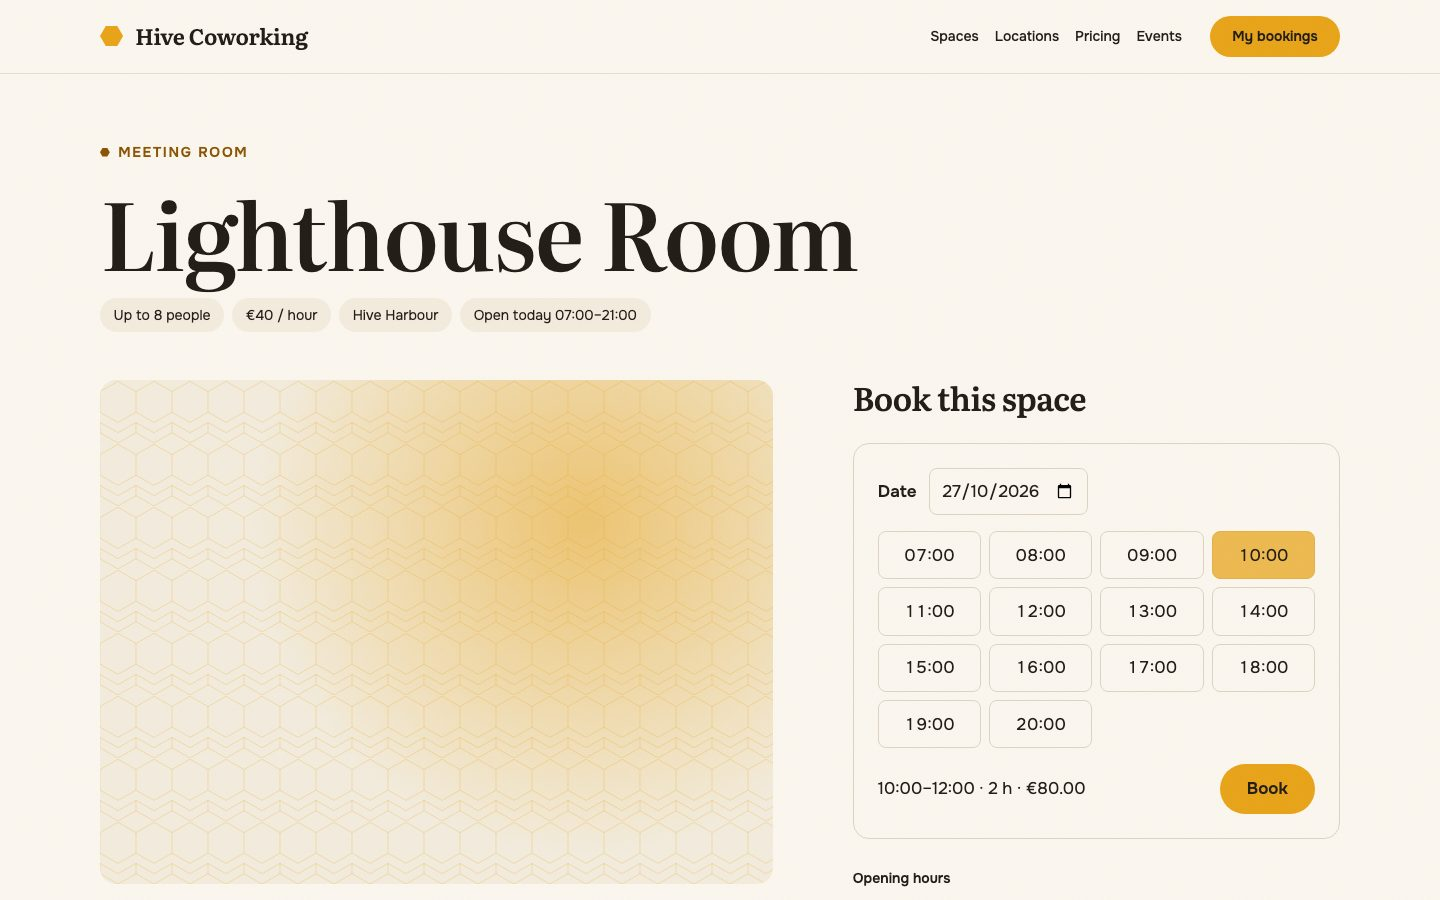
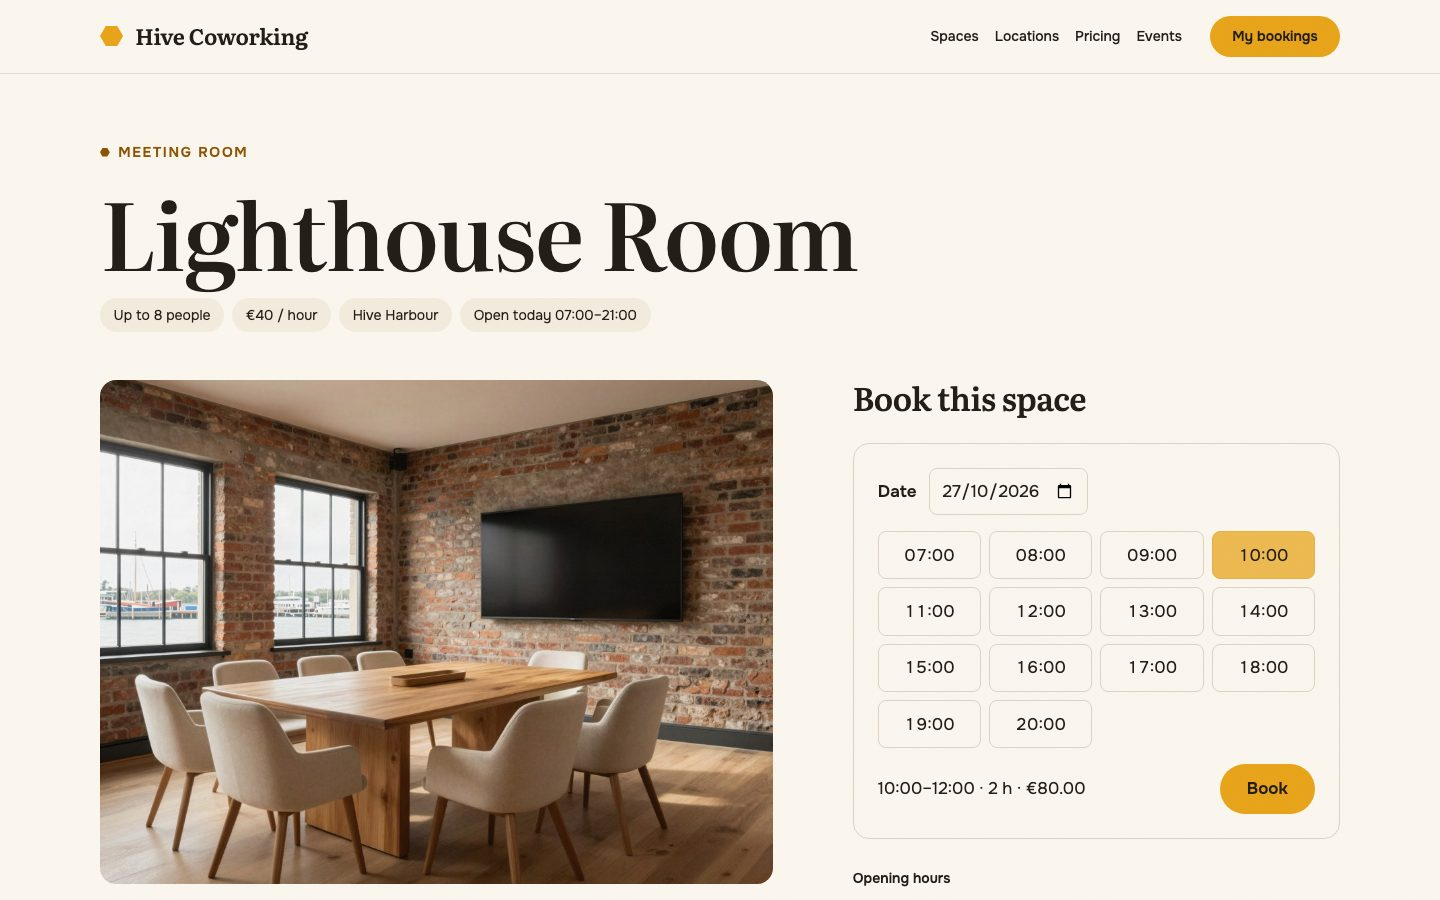
Add photos to the demo content
- Fifteen photos of the locations and spaces, bundled with the plugin and
  attached as featured images by the seeder (only where none is set, so
  rerunning wp hive seed adds them to existing sites)
- Sub-sizes are skipped while seeding to keep WordPress Playground fast
- Shared e2e login helper waits for wp-login.php's own focus timer, which
  made logins flaky
- Screenshots retaken with the photos

Changed region(s): [[0.0625, 0.4044, 0.5625, 0.9956]]

diff --git a/tests/e2e/screenshots.spec.js b/tests/e2e/screenshots.spec.js
@@ -2,7 +2,7 @@
  * Captures the README screenshots: npm run screenshots
  */
 const { test, expect } = require( '@playwright/test' );
-const { weekdayAhead } = require( './helpers' );
+const { weekdayAhead, logIn } = require( './helpers' );
 
 const OUT = 'docs/screenshots';
 const shot = ( page, name ) =>
@@ -41,8 +41,16 @@ test( 'space finder', async ( { page } ) => {
 	await page.goto( '/spaces/?space_type=meeting_room', {
 		waitUntil: 'networkidle',
 	} );
-	await page.locator( '.hive-finder__filters' ).scrollIntoViewIfNeeded();
-	await page.evaluate( () => window.scrollBy( 0, -120 ) );
+	// Show the filters and the first row of results together.
+	await page.evaluate( () =>
+		window.scrollTo(
+			0,
+			document.querySelector( '.hive-finder' ).getBoundingClientRect()
+				.top +
+				window.scrollY -
+				90
+		)
+	);
 	await shot( page, 'finder' );
 } );
 
@@ -80,10 +88,8 @@ test( 'admin bookings screen', async ( { browser } ) => {
 		viewport: { width: 1440, height: 900 },
 	} );
 	const page = await context.newPage();
-	await page.goto( '/wp-login.php' );
-	await page.getByLabel( 'Username or Email Address' ).fill( 'admin' );
-	await page.getByLabel( 'Password', { exact: true } ).fill( 'password' );
-	await page.getByRole( 'button', { name: 'Log In' } ).click();
+	// Default wp-env administrator.
+	await logIn( page, 'admin', 'password' );
 	await page.goto( '/wp-admin/admin.php?page=hive-bookings&when=all' );
 	await page.screenshot( {
 		path: `${ OUT }/admin.jpg`,

diff --git a/tests/e2e/helpers.js b/tests/e2e/helpers.js
@@ -51,4 +51,27 @@ async function spaceIdOnPage( page ) {
 	return JSON.parse( context ).spaceId;
 }
 
-module.exports = { weekdayAhead, bookThroughApi, spaceIdOnPage };
+/**
+ * Logs in through wp-login.php.
+ *
+ * The login page clears and focuses the username field 200 ms after load (wp_attempt_focus),
+ * so filling the form earlier races with it. Waiting past that timer makes logins reliable.
+ *
+ * @param {import('@playwright/test').Page} page     Page.
+ * @param {string}                          login    Username.
+ * @param {string}                          password Password.
+ */
+async function logIn( page, login, password ) {
+	await page.goto( '/wp-login.php', { waitUntil: 'load' } );
+	await page.waitForTimeout( 400 );
+
+	await page.getByLabel( 'Username or Email Address' ).fill( login );
+	await page.getByLabel( 'Password', { exact: true } ).fill( password );
+	await page.getByRole( 'button', { name: 'Log In' } ).click();
+	await page.waitForURL(
+		( url ) => ! url.pathname.endsWith( 'wp-login.php' ),
+		{ timeout: 30_000 }
+	);
+}
+
+module.exports = { weekdayAhead, bookThroughApi, spaceIdOnPage, logIn };

diff --git a/tests/e2e/auth.setup.js b/tests/e2e/auth.setup.js
@@ -1,16 +1,9 @@
-const { test: setup, expect } = require( '@playwright/test' );
+const { test: setup } = require( '@playwright/test' );
 const { MEMBER_LOGIN, MEMBER_PASSWORD } = require( './config' );
+const { logIn } = require( './helpers' );
 
 setup( 'log in as the demo member', async ( { page } ) => {
-	await page.goto( '/wp-login.php' );
-	await page.getByLabel( 'Username or Email Address' ).fill( MEMBER_LOGIN );
-	await page
-		.getByLabel( 'Password', { exact: true } )
-		.fill( MEMBER_PASSWORD );
-	await page.getByRole( 'button', { name: 'Log In' } ).click();
-	// The first request to a freshly started site can be slow in CI.
-	await expect( page ).not.toHaveURL( /wp-login\.php/, { timeout: 30_000 } );
-
+	await logIn( page, MEMBER_LOGIN, MEMBER_PASSWORD );
 	await page
 		.context()
 		.storageState( { path: 'tests/e2e/.auth/member.json' } );

diff --git a/plugins/hive-core/src/Demo/Seeder.php b/plugins/hive-core/src/Demo/Seeder.php
@@ -29,13 +29,14 @@ final class Seeder {
 	 *
 	 * @param DateTimeImmutable $now           Current time; events and bookings are placed relative to it.
 	 * @param string|null       $demo_password Password for the demo member; random when null.
-	 * @return array{amenities: int, locations: int, spaces: int, plans: int, events: int, pages: int, members: int, bookings: int}
+	 * @return array{amenities: int, locations: int, spaces: int, photos: int, plans: int, events: int, pages: int, members: int, bookings: int}
 	 */
 	public function run( DateTimeImmutable $now, ?string $demo_password = null ): array {
 		return array(
 			'amenities' => $this->seed_amenities(),
 			'locations' => $this->seed_locations(),
 			'spaces'    => $this->seed_spaces(),
+			'photos'    => $this->seed_photos(),
 			'plans'     => $this->seed_plans(),
 			'events'    => $this->seed_events( $now ),
 			'pages'     => $this->seed_pages(),
@@ -116,6 +117,63 @@ final class Seeder {
 		}
 
 		return $created;
+	}
+
+	/**
+	 * Sets the bundled photos as featured images of locations and spaces that have none.
+	 */
+	private function seed_photos(): int {
+		$created = 0;
+
+		foreach ( array_merge( array_keys( DemoContent::locations() ), array_keys( DemoContent::spaces() ) ) as $slug ) {
+			$post_id = $this->ids[ $slug ] ?? 0;
+			$file    = dirname( __DIR__, 2 ) . '/assets/demo/' . $slug . '.jpg';
+
+			if ( $post_id && is_readable( $file ) && ! has_post_thumbnail( $post_id ) ) {
+				$created += $this->attach_photo( $post_id, $file );
+			}
+		}
+
+		return $created;
+	}
+
+	/**
+	 * Copies a photo into the uploads folder and makes it the post's featured image.
+	 *
+	 * @param int    $post_id Post to attach the photo to.
+	 * @param string $file    Absolute path of the photo.
+	 */
+	private function attach_photo( int $post_id, string $file ): int {
+		require_once ABSPATH . 'wp-admin/includes/image.php';
+
+		// phpcs:ignore WordPress.WP.AlternativeFunctions.file_get_contents_file_get_contents -- Reading a bundled local file.
+		$upload = wp_upload_bits( basename( $file ), null, (string) file_get_contents( $file ) );
+		if ( false !== $upload['error'] ) {
+			return 0;
+		}
+
+		$attachment_id = wp_insert_attachment(
+			array(
+				'post_mime_type' => 'image/jpeg',
+				'post_title'     => get_the_title( $post_id ),
+				'post_status'    => 'inherit',
+			),
+			$upload['file'],
+			$post_id
+		);
+		if ( 0 === $attachment_id ) {
+			return 0;
+		}
+
+		// The photos are already web-sized. Skipping sub-sizes keeps seeding fast in WordPress Playground.
+		add_filter( 'intermediate_image_sizes_advanced', '__return_empty_array' );
+		wp_update_attachment_metadata( $attachment_id, wp_generate_attachment_metadata( $attachment_id, $upload['file'] ) );
+		remove_filter( 'intermediate_image_sizes_advanced', '__return_empty_array' );
+
+		update_post_meta( $attachment_id, '_wp_attachment_image_alt', get_the_title( $post_id ) );
+		set_post_thumbnail( $post_id, $attachment_id );
+
+		return 1;
 	}
 
 	/**

diff --git a/plugins/hive-core/tests/integration/Demo/SeederTest.php b/plugins/hive-core/tests/integration/Demo/SeederTest.php
@@ -11,11 +11,18 @@ use Hive\Core\Tests\Integration\TestCase;
 
 final class SeederTest extends TestCase {
 
+	public function tear_down(): void {
+		$this->remove_added_uploads();
+		parent::tear_down();
+	}
+
 	public function test_creates_the_demo_catalogue(): void {
 		$counts = ( new Seeder() )->run( self::local( '2030-01-07 09:00' ) );
 
 		$this->assertSame( 3, $counts['locations'] );
 		$this->assertSame( 12, $counts['spaces'] );
+		$this->assertSame( 15, $counts['photos'], 'Every location and space gets a photo.' );
+		$this->assertTrue( has_post_thumbnail( get_page_by_path( 'lighthouse-room', OBJECT, PostTypes::SPACE ) ) );
 		$this->assertSame( 3, $counts['plans'] );
 		$this->assertSame( 4, $counts['events'] );
 		$this->assertSame( 2, $counts['pages'] );

diff --git a/README.md b/README.md
@@ -32,7 +32,8 @@ Nothing is saved.
 - **Admin.** A bookings screen with filters, bulk cancel and CSV export; a dashboard widget with
   today's occupancy; a settings page for the booking rules.
 - **Emails.** HTML confirmation and cancellation emails in the member's own language.
-- **WP-CLI.** `wp hive seed` creates the demo content; `wp hive bookings list` reports bookings.
+- **WP-CLI.** `wp hive seed` creates the demo content, including featured photos;
+  `wp hive bookings list` reports bookings.
 - **Theme.** A warm editorial block theme with a honeycomb motif, a dark *Night Shift* variation,
   translatable patterns and templates for every view.
 
@@ -139,4 +140,5 @@ and an integration test checks the catalogues stay complete.
 ## License
 
 GPL-2.0-or-later. Fonts: Literata and Onest, SIL Open Font License 1.1.
-Hive Coworking is a fictional company; the people quoted on the site are made up.
+Hive Coworking is a fictional company; the people quoted on the site are made up, and the
+demo photos of its locations and spaces are AI-generated.
